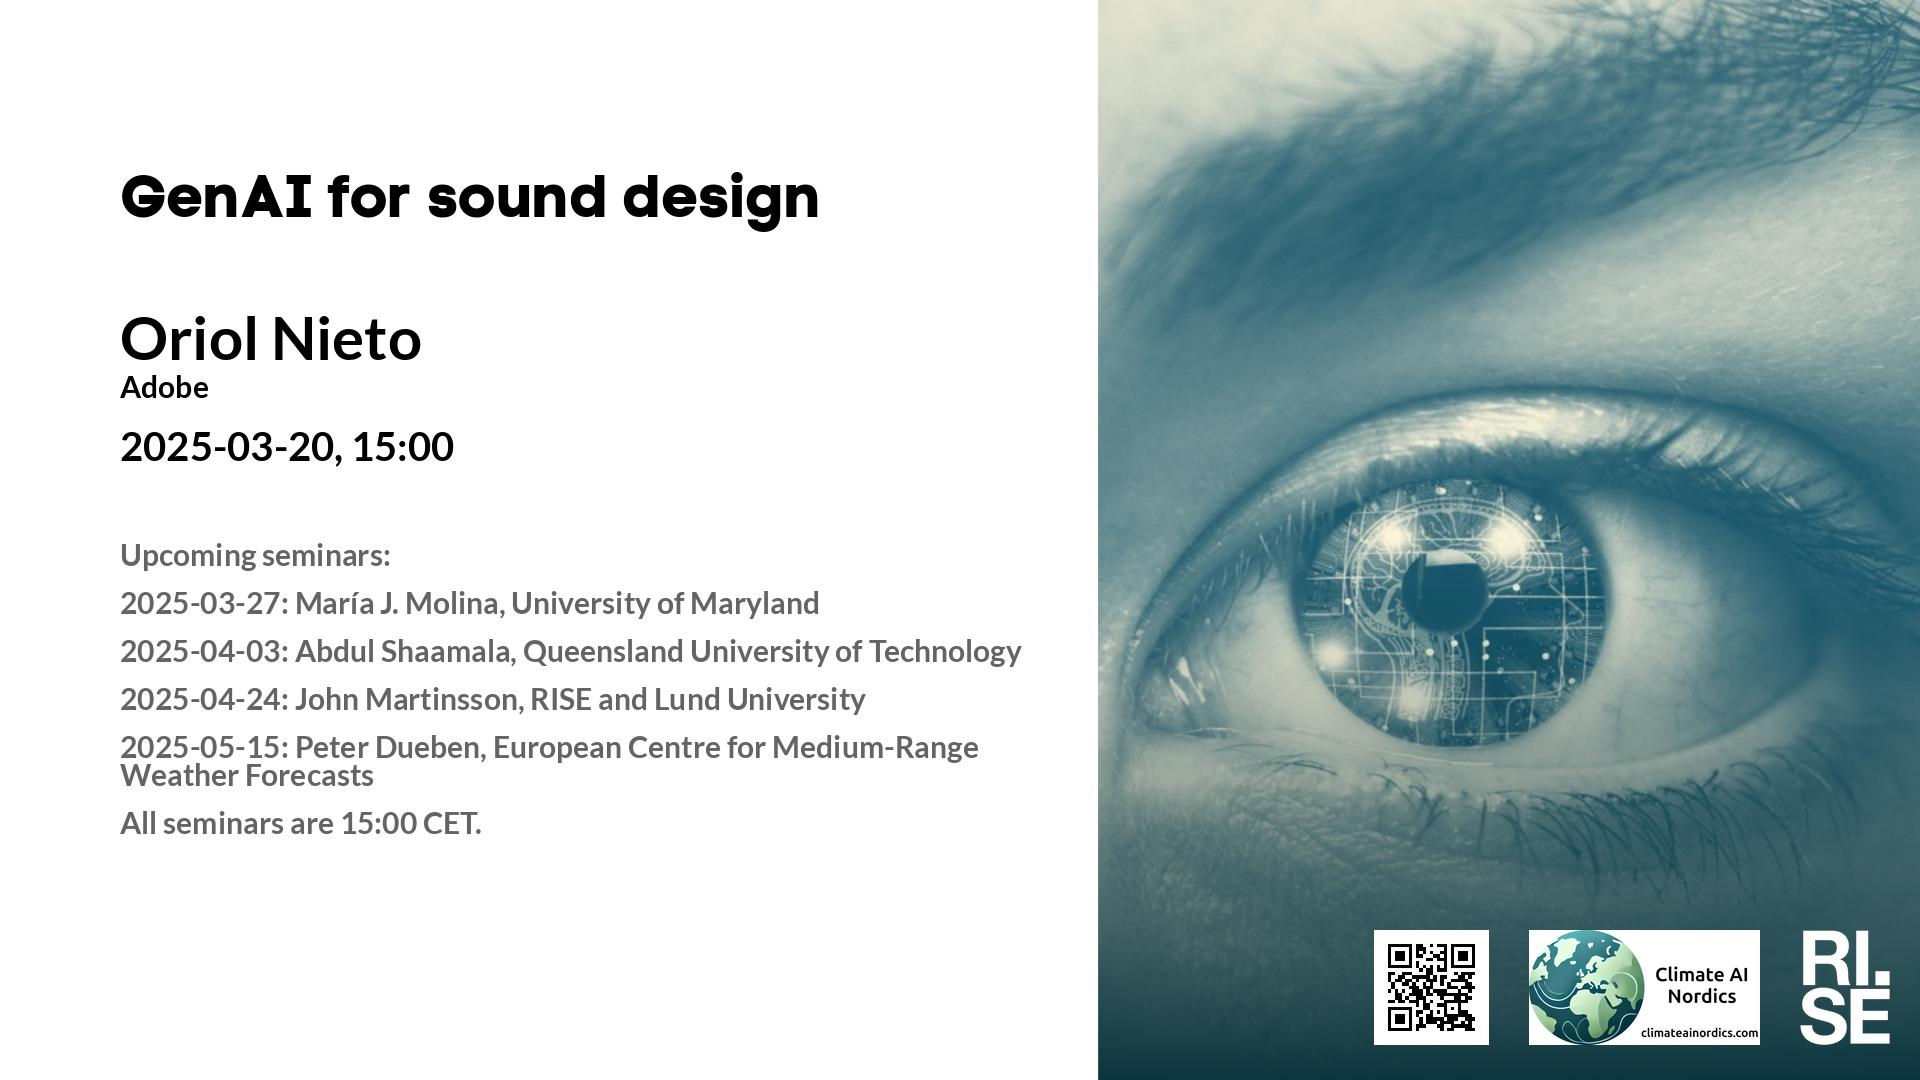
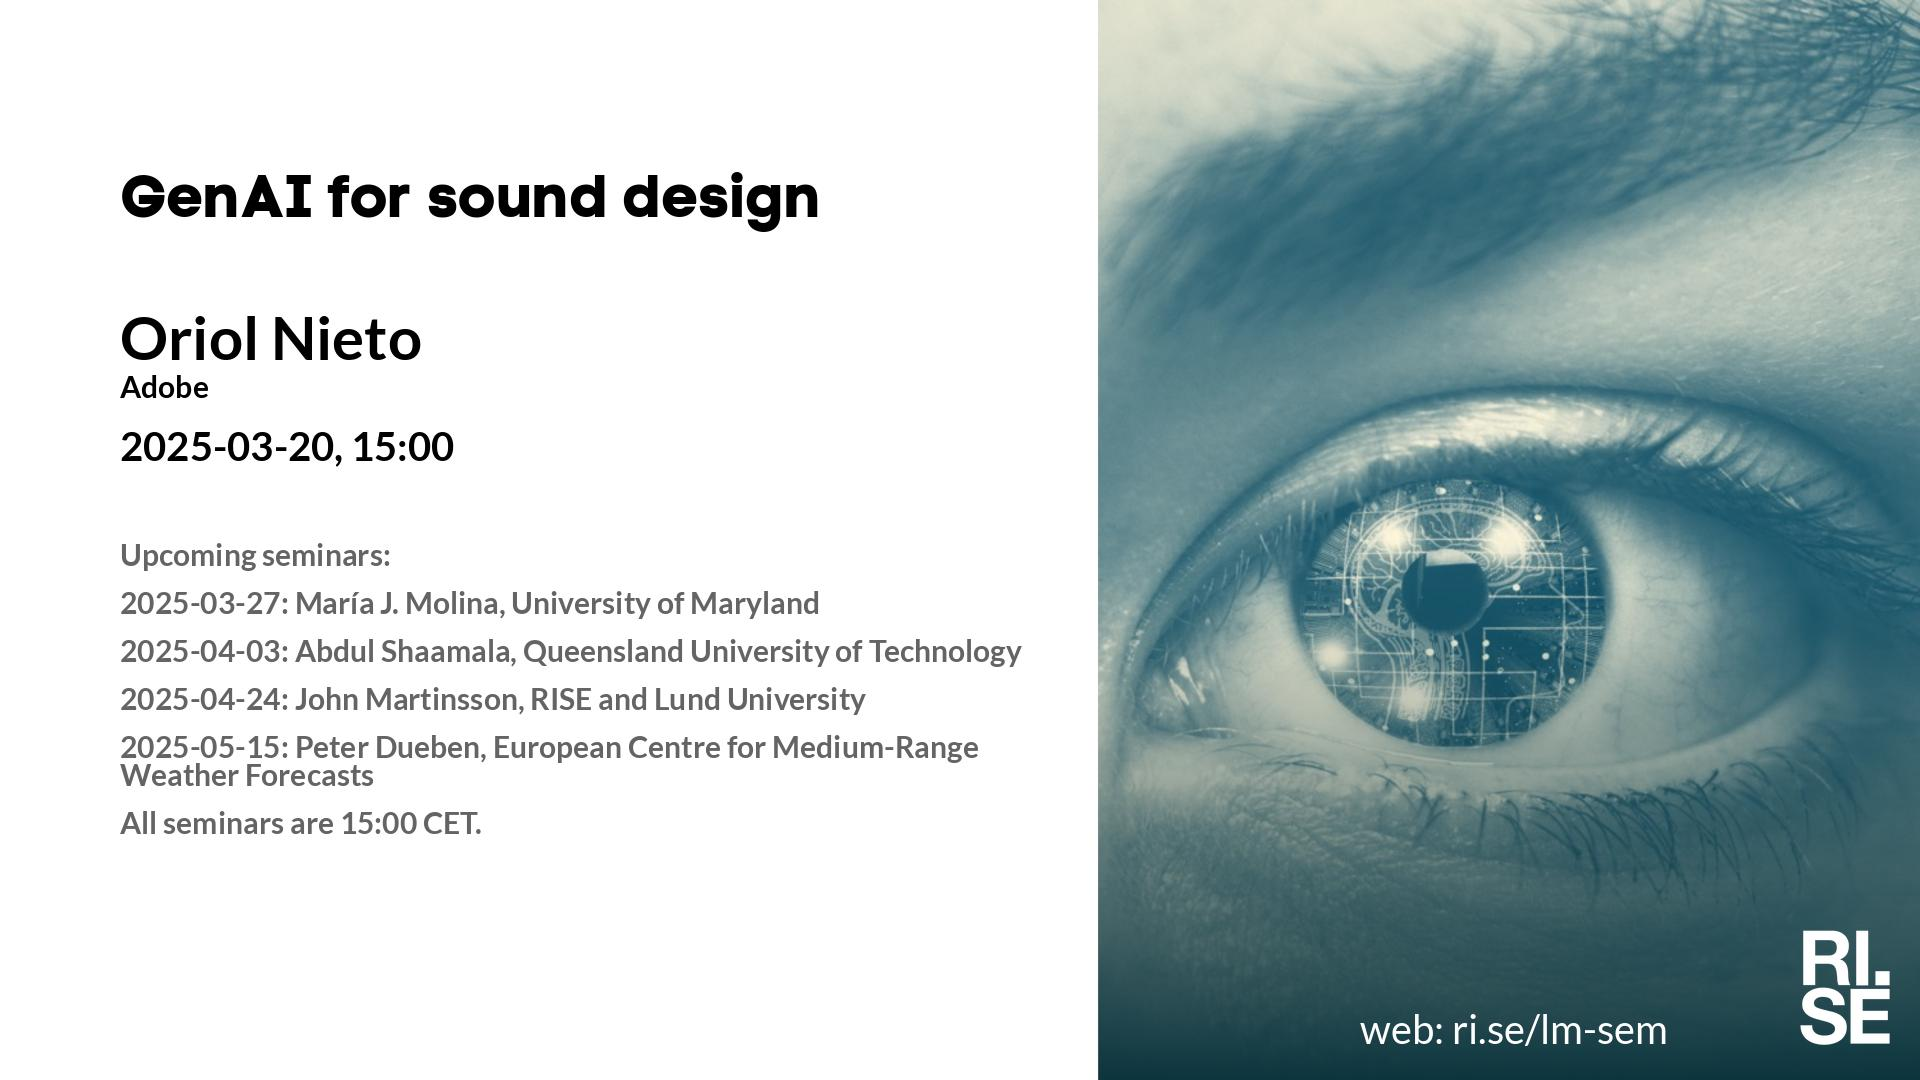
Updated plan on web site.

Changed region(s): [[0.6875, 0.8556, 0.9375, 0.9778]]

diff --git a/lm/2025-03-20.md b/lm/2025-03-20.md
@@ -5,8 +5,6 @@ metatags: "<meta name=\"robots\" content=\"noindex,nofollow\" />"
  
 Welcome to this week's Learning Machines seminar.
 
-This seminar is a collaboration between RISE and Climate AI Nordics -- [climateainordics.com](https://climateainordics.com/).
-
 **Title:** GenAI for sound design
 
 **Speaker:** Oriol Nieto, Adobe
